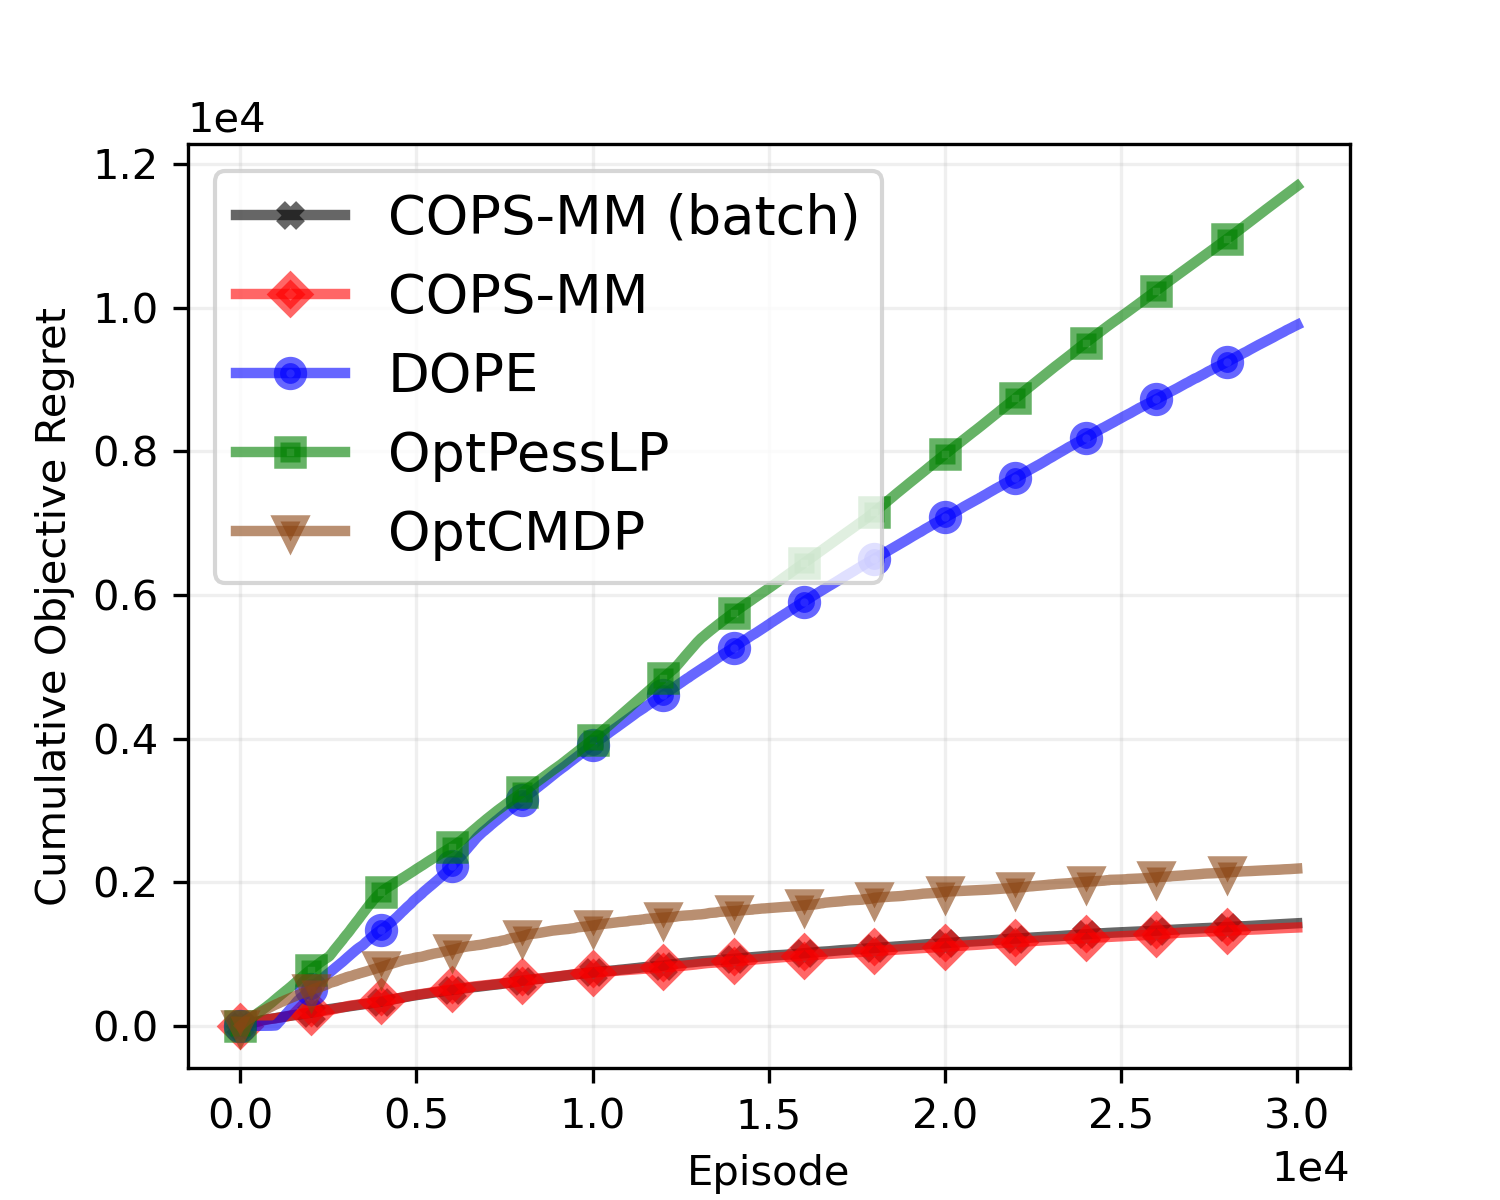
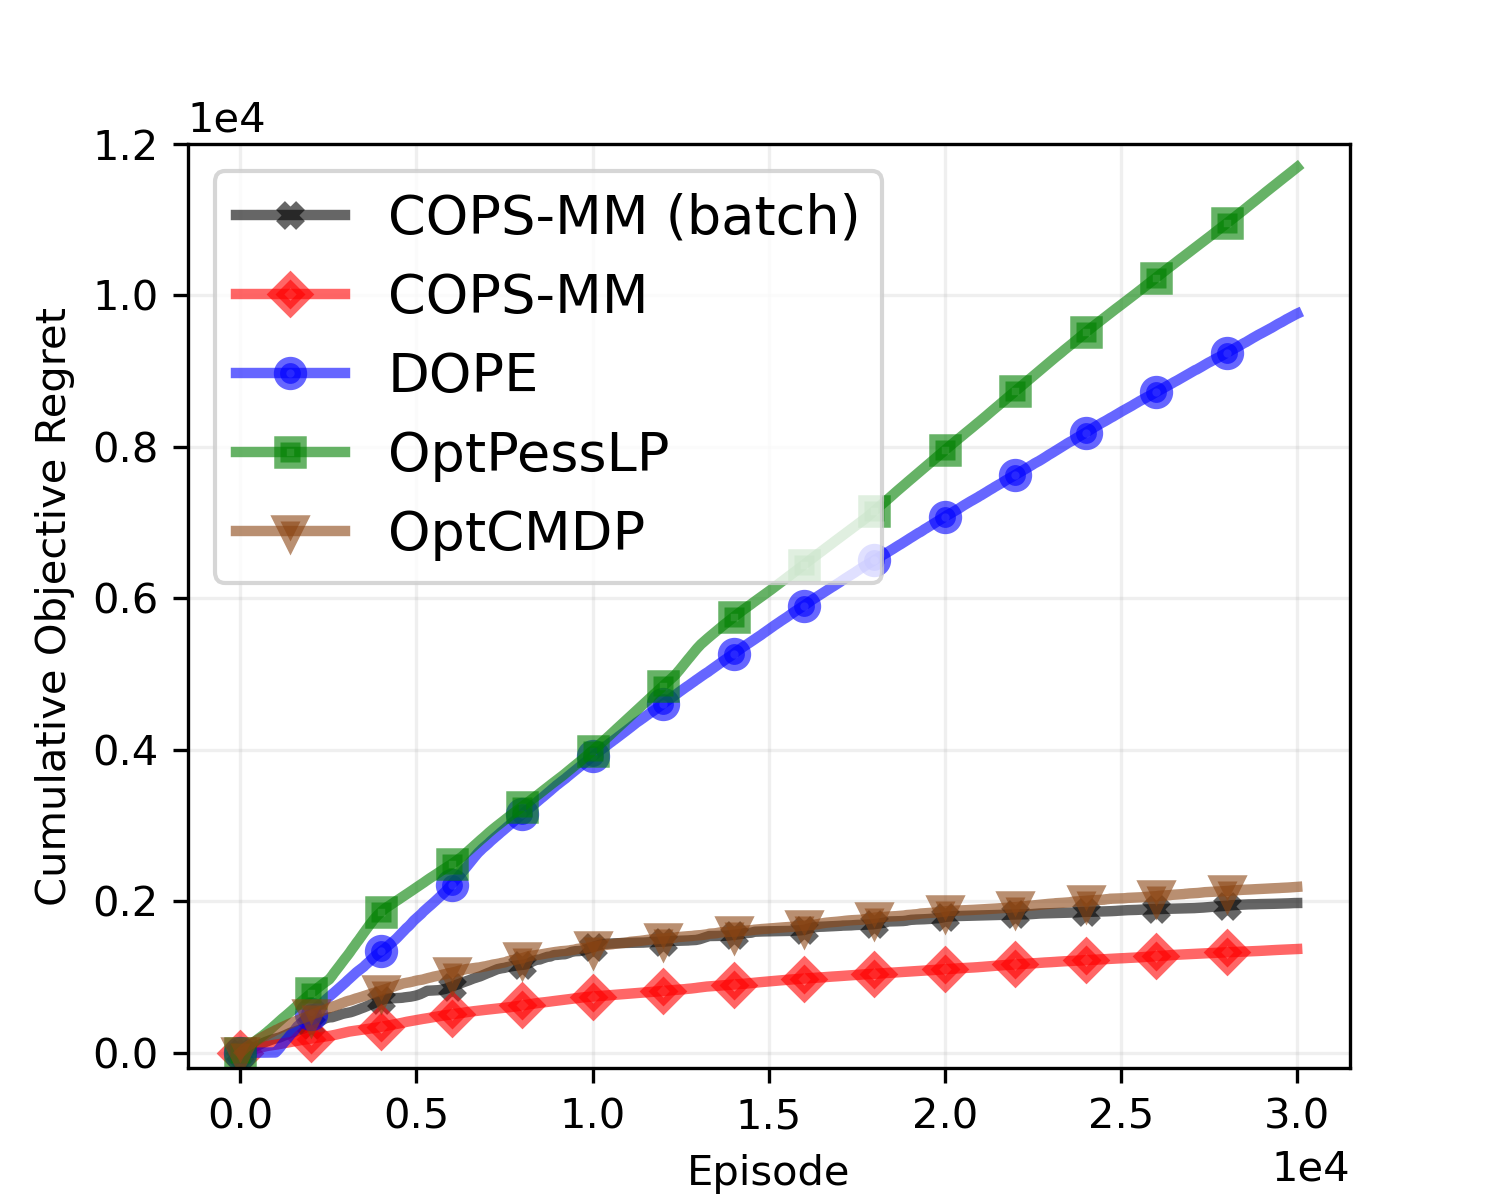
plot batch comparison

diff --git a/BPBGClass/DOPE/plot_all_separate.py b/BPBGClass/DOPE/plot_all_separate.py
@@ -82,7 +82,7 @@ mark_every_interval = 2000 # marker point interval
 
 
 fn_list = [
-           '../Contextual_shuffle/output_bs20/CONTEXTUAL_opsrl100.pkl',
+           '../Contextual_shuffle/output_bs100/CONTEXTUAL_opsrl100.pkl',
            '../Contextual/output_final/CONTEXTUAL_opsrl100.pkl',
            #'output/DOPE_opsrl100.pkl', # this RUN# 100 has 39 Cons1Regret, thus not used
            #'output/DOPE_opsrl200.pkl',
@@ -136,7 +136,7 @@ axs.ticklabel_format(style='sci', axis='both', scilimits=(0,0))
 axs.legend(loc = 'upper left', prop={'size': 13})
 axs.set_xlabel('Episode')
 axs.set_ylabel('Cumulative Objective Regret')
-#axs.set_ylim([-0.1e3, 5e3])
+axs.set_ylim([-0.2e3, 1.2e4])
 
 plt.savefig("BPBGClass_obj_regrets.png", dpi=300, facecolor='w', edgecolor='w')
 # plt.savefig("../../NumericalResults/plots/png/BPBGClass_obj_regrets.png", dpi=300, facecolor='w', edgecolor='w')
